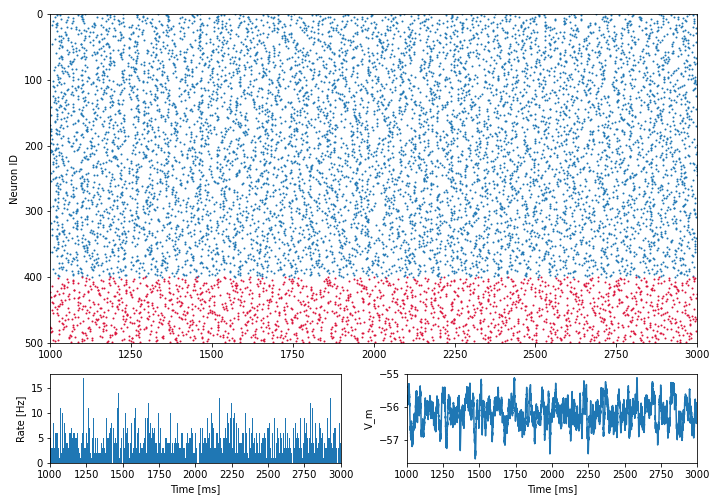
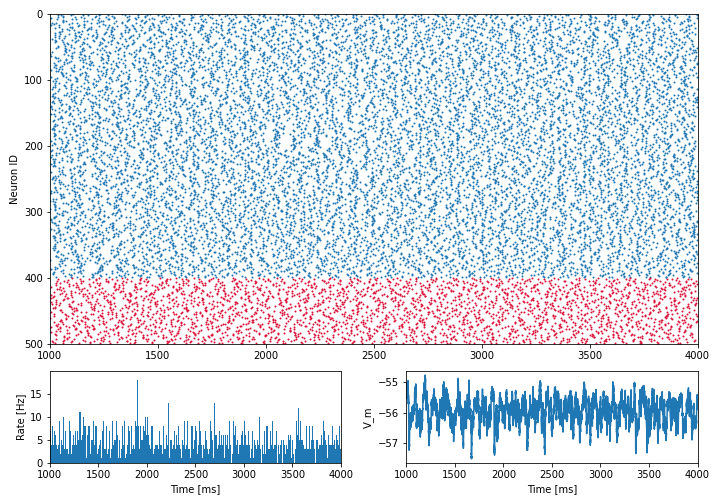
To-Do added

diff --git a/simulation/setup.py b/simulation/setup.py
@@ -1,6 +1,14 @@
 import numpy as np
 import pickle
 
+## Make E/I ratio
+## Make total connections value (percentage)
+
+## Figure out gamma range
+## Figure out beta range
+
+## spectral density plot
+
 def setup():
     #######################################
     ## Set parameters for the simulation ##
@@ -9,9 +17,9 @@ def setup():
     ## Recording and simulation parameters
     params = {
         'rec_start'  :   1000.,                                                # start point for data recording
-        'rec_stop'   :   3000.,                                                # end points for data recording
+        'rec_stop'   :   4000.,                                                # end points for data recording
         'record_to'  :'memory',
-        'sim_time'   :   3000.,                                                # Time the network is simulated in ms
+        'sim_time'   :   4000.,                                                # Time the network is simulated in ms
         'calc_lfp'   :   False,                                                # Flag to use LFP approximation procedure
         'verbose'    :    True,                                                # Flag for verbose function output
         'K_scale'    :      1.,                                                # Scaling factor for connections
@@ -40,7 +48,7 @@ def setup():
                          {
                              'V_m'        :  -70.,
                              'V_th'       :  -49.,
-                             'V_reset'    :  -80.,
+                             'V_reset'    :  -76.,
                              'C_m'        :  250.,
                              't_ref'      :    4.,
                              'tau_syn_ex' :     1,
@@ -54,10 +62,10 @@ def setup():
                             'V_reset'    :  -70.,
                             'C_m'        :  250.,
                             't_ref'      :    3.,
-                            'tau_syn_ex' :     2,
-                            'tau_syn_in' :     1,
+                            'tau_syn_ex' :     1,
+                            'tau_syn_in' :     2,
                             'E_L'        : -65.0,
-                            'tau_m'      :  20.0,
+                            'tau_m'      :  30.0,
                         },
                         {
                             'V_m'        :  -70.,
@@ -65,10 +73,10 @@ def setup():
                             'V_reset'    :  -70.,
                             'C_m'        :  250.,
                             't_ref'      :    4.,
-                            'tau_syn_ex' :     2,
-                            'tau_syn_in' :     1,
+                            'tau_syn_ex' :    1.,
+                            'tau_syn_in' :    1.,
                             'E_L'        : -65.0,
-                            'tau_m'      :  20.0,
+                            'tau_m'      :  25.0,
                         }],
         'pop_name'   : ['L1_E', 'L1_I',
                         'L2_E' , 'L2_I']
